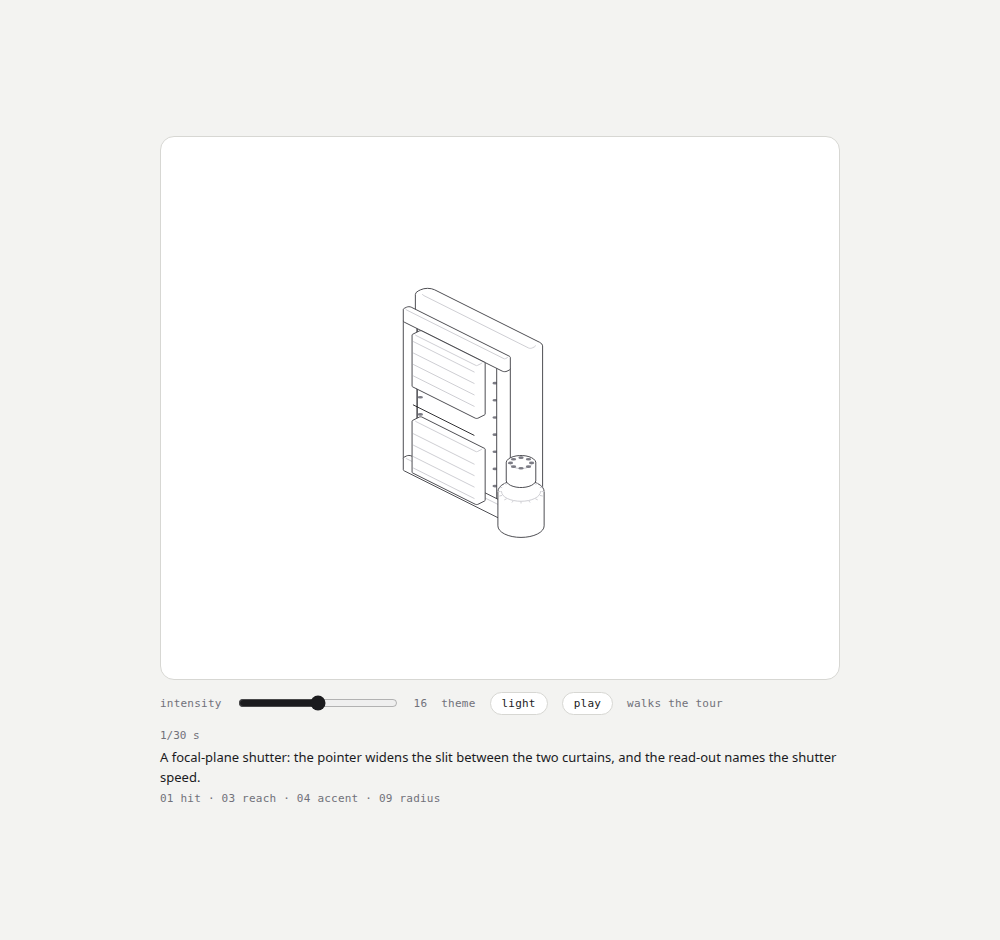
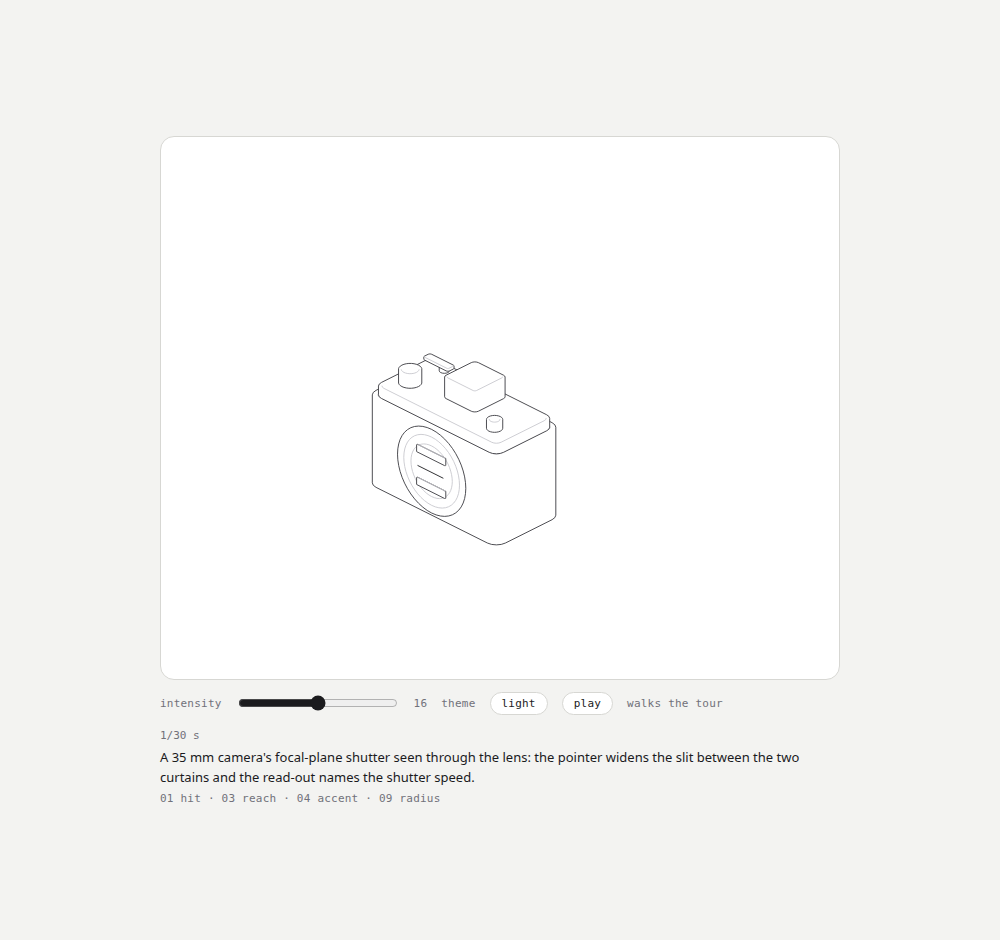
Rebuild the shutter as a camera so it reads
The plain focal-plane shutters read as a split door. A shutter has no identity
without its camera, so the figure is now the camera: body, lens, top plate with
prism, wind lever, shutter button and rewind knob, with the curtains and slit
seen through the lens. The concept was the fault, not the kernel.

Changed region(s): [[0.372, 0.3085, 0.558, 0.5862], [0.155, 0.8021, 0.837, 0.833]]

diff --git a/.agents/prototypes/shutter/eli5/eli5-shutter.html b/.agents/prototypes/shutter/eli5/eli5-shutter.html
@@ -817,69 +817,67 @@ function figure(spec) {
 
 
 /**
- * shutter — the focal-plane shutter of a 35 mm camera, seen from the front:
- * the film gate, two curtains (first and second) with the exposure slit between
- * them, a winding knob and a sprocket. The curtains travel together at one
- * speed, so how long the film is exposed is the width of the slit: the pointer
- * widens the slit and the read-out names the shutter speed. At rest the shutter
- * is nearly closed. intensity is the widest slit, so a stronger setting lets the
- * pointer reach a slower speed.
- *
- * A figure creates its solids and draws them in the same order it wants them
- * painted: the audit reads paint order from the order `draw` was called.
+ * shutter — the focal-plane shutter of a 35 mm camera, seen head-on. The camera
+ * is drawn with its shutter at the centre of the lens: the two curtains and the
+ * slit between them. The curtains travel at one speed, so how long the film is
+ * exposed is the width of the slit — the pointer widens the slit and the
+ * read-out names the shutter speed. At rest the shutter is nearly closed.
+ * intensity is the widest slit, so a stronger setting reaches a slower speed.
  */
-const W = 36, H = 48, CY = H / 2, EDGE = 4;       // the gate, and the film's sprocket margins
+const BW = 36, BH = 40, BY = 16;              // the body's half-width/height, and its front face
+const LX = 0, LZ = 20, GAP = 9;              // the lens, and the shutter opening inside it
 const STOPS = [[1.6, "1000"], [2.6, "500"], [4, "250"], [6, "125"], [9, "60"], [13, "30"], [19, "15"]];
 const speed = (s) => STOPS.reduce((a, b) => (Math.abs(b[0] - s) < Math.abs(a[0] - s) ? b : a))[1];
 
 function mount({ stage, svg, read }, value) {
   const bag = EL.disposer();
-  const C = EL.cam(45, 0.5, 1.95);
-  EL.fit(C, [[-6, -12, -6], [W + 20, -12, -6], [W + 20, -12, H + 6], [-6, -12, H + 6], [W + 20, 8, 0]], 200, 162);
+  const C = EL.cam(45, 0.5, 1.5);
+  EL.fit(C, [[-BW - 6, -22, -6], [BW + 6, -22, -6], [BW + 6, -22, BH + 18], [-BW - 6, -22, BH + 18], [BW + 10, 16, 4]], 200, 174);
   const P = EL.proj(C), front = EL.facing(C);
   const g = EL.mk("g", {}, svg);
+  /** A circle drawn on the vertical front face (the x–z plane at y). */
+  const ringOnFace = (cx, cz, r, y, n = 48) => EL.poly([...Array(n)].map((_, i) => { const t = (i / n) * 2 * Math.PI; return P(cx + Math.cos(t) * r, y, cz + Math.sin(t) * r); }));
 
-  let over = null, last = NaN;
-  let A, B, slats, slit;
-  /** Paints the two curtains at slit `s`. `record` draws them once, in paint order, for the audit. */
+  // the body, and the top plate with the wind lever and the shutter button
+  EL.draw(EL.solid(g), EL.slab(-BW, -20, BW, BY, 5, 0, BH, P, front, { inset: 2.2 }), { name: "body", at: [0, -2, BH / 2] });
+  EL.draw(EL.solid(g), EL.slab(-BW + 2, -18, BW - 2, BY - 2, 4, BH, BH + 4, P, front, { inset: 1.4 }), { name: "top", at: [0, -2, BH + 2] });
+  EL.draw(EL.solid(g), EL.slab(-9, -17, 9, 1, 2, BH + 4, BH + 13, P, front, { inset: 1 }), { name: "prism", at: [0, -8, BH + 8] });
+  EL.draw(EL.solid(g), EL.cylinder(23, 4, 3.2, BH + 4, BH + 8, P, front, 24), { name: "release", at: [23, 4, BH + 6] });
+  EL.draw(EL.solid(g), EL.cylinder(-26, 2, 4.6, BH + 4, BH + 10, P, front, 28), { name: "rewind", at: [-26, 2, BH + 7] });
+  EL.draw(EL.solid(g), EL.cylinder(-23, -14, 2, BH + 4, BH + 6, P, front, 16), { name: "lever.pivot", at: [-23, -14, BH + 5] });
+  EL.draw(EL.solid(g), EL.slab(-33, -16, -19, -12, 1, BH + 6, BH + 7, P, front, { inset: 0.4 }), { name: "lever", at: [-26, -14, BH + 6.5] });
+
+  // the lens: concentric rings on the front face, the shutter inside the glass
+  EL.line(g, ringOnFace(LX, LZ, 19, BY + 0.04), "el-sil");
+  EL.line(g, ringOnFace(LX, LZ, 15.5, BY + 0.05), "el-lo");
+  EL.line(g, ringOnFace(LX, LZ, 11.5, BY + 0.06), "el-lo");
+
+  let over = null, last = NaN, A, B, slats, slit;
   const paint = (s, record) => {
     if (!record && s === last) return;
     last = s;
-    const za = CY + s / 2, zb = CY - s / 2;
-    const pa = EL.slab(EDGE, 1, W - EDGE, 5, 0.6, za, H, P, front, { inset: 0.8 });
-    const pb = EL.slab(EDGE, 1, W - EDGE, 5, 0.6, 0, zb, P, front, { inset: 0.8 });
-    if (record) {
-      EL.draw(A, pa, { name: "curtain", at: [W / 2, 3, (za + H) / 2] });
-      EL.draw(B, pb, { name: "curtain", at: [W / 2, 3, zb / 2] });
-    } else { EL.put(A, pa.paths); EL.put(B, pb.paths); }
+    const za = LZ + s / 2, zb = LZ - s / 2;
+    const pa = EL.slab(LX - GAP + 1, BY, LX + GAP - 1, BY + 0.6, 0.6, za, LZ + GAP, P, front, { inset: 0.6 });
+    const pb = EL.slab(LX - GAP + 1, BY, LX + GAP - 1, BY + 0.6, 0.6, LZ - GAP, zb, P, front, { inset: 0.6 });
+    if (record) { EL.draw(A, pa, { name: "curtain", at: [LX, BY + 0.3, (za + LZ + GAP) / 2] }); EL.draw(B, pb, { name: "curtain", at: [LX, BY + 0.3, (LZ - GAP + zb) / 2] }); }
+    else { EL.put(A, pa.paths); EL.put(B, pb.paths); }
     let d = "";
-    for (let z = za + 4; z < H - 1; z += 4) d += EL.seg(P(EDGE + 1, 5.06, z), P(W - EDGE - 1, 5.06, z));
-    for (let z = zb - 4; z > 1; z -= 4) d += EL.seg(P(EDGE + 1, 5.06, z), P(W - EDGE - 1, 5.06, z));
+    for (let z = za + 3; z < LZ + GAP - 1; z += 3) d += EL.seg(P(LX - GAP + 2, BY + 0.66, z), P(LX + GAP - 2, BY + 0.66, z));
+    for (let z = zb - 3; z > LZ - GAP + 1; z -= 3) d += EL.seg(P(LX - GAP + 2, BY + 0.66, z), P(LX + GAP - 2, BY + 0.66, z));
     slats.innerHTML = `<path class="el-lo" d="${d}"/>`;
-    slit.setAttribute("d", EL.seg(P(EDGE + 1, 5.12, CY), P(W - EDGE - 1, 5.12, CY)));
+    slit.setAttribute("d", EL.seg(P(LX - GAP + 2, BY + 0.72, LZ), P(LX + GAP - 2, BY + 0.72, LZ)));
     read.textContent = over ? `1/${speed(s)} s` : "rest";
   };
 
-  // body → film → curtains → frame → drive, in paint order
-  EL.draw(EL.solid(g), EL.slab(-6, -12, W + 9, -5, 3, -6, H + 6, P, front, { inset: 2.2 }), { name: "body", at: [W / 2, -8, H / 2] });
-  EL.draw(EL.solid(g), EL.slab(0, -4, W, -1, 1, 0, H, P, front, { inset: 0 }), { name: "film", at: [W / 2, -2.5, H / 2] });
-  for (const x of [2, W - 2]) for (let z = 5; z < H - 3; z += 6) { const d = EL.dot(g, C, 0.8, "el-dot m"); EL.place(d, P(x, -0.9, z)); }
-  for (const [x0, x1] of [[-4, 0], [W, W + 4]]) EL.draw(EL.solid(g), EL.slab(x0, -2, x1, 1, 1, 0, H, P, front, { inset: 0.8 }), { name: "rail", at: [(x0 + x1) / 2, -0.5, H / 2] });
-  for (const [z0, z1] of [[-4, 0], [H, H + 4]]) EL.draw(EL.solid(g), EL.slab(-4, -2, W + 4, 1, 1, z0, z1, P, front, { inset: 0.8 }), { name: "rail", at: [W / 2, -0.5, (z0 + z1) / 2] });
   A = EL.solid(g); B = EL.solid(g); slats = EL.mk("g", {}, g); slit = EL.line(g, "", "el-hi");
   paint(value * 0.4, true);
-  EL.draw(EL.solid(g), EL.cylinder(W + 12, 2, 7, -2, 10, P, front, 32), { name: "knob", at: [W + 12, 2, 4] });
-  let kd = ""; for (let i = 0; i < 16; i++) { const a = (i * Math.PI) / 8; kd += EL.seg(P(W + 12 + Math.cos(a) * 6.3, 2 + Math.sin(a) * 6.3, 10), P(W + 12 + Math.cos(a) * 7, 2 + Math.sin(a) * 7, 10)); }
-  EL.line(g, kd, "el-lo");
-  EL.draw(EL.solid(g), EL.cylinder(W + 12, 2, 4.5, 14, 20, P, front, 28), { name: "sprocket", at: [W + 12, 2, 17] });
-  for (let i = 0; i < 8; i++) { const a = (i * Math.PI) / 4; const d = EL.dot(g, C, 0.8, "el-dot m"); EL.place(d, P(W + 12 + Math.cos(a) * 3.2, 2 + Math.sin(a) * 3.2, 20)); }
 
   const sp = EL.spring(value * 0.4, { eps: 0.01 });
   const loop = EL.register(stage, (dt) => { const m = EL.stepS(sp, dt); paint(sp.x, false); return m; });
   bag.add(loop.unregister);
-  const retarget = () => { sp.t = over ? EL.clamp((over[0] / W) * value, 1.2, value) : value * 0.4; loop.wake(); };
+  const retarget = () => { sp.t = over ? EL.clamp(((over[0] - LX) / GAP) * 0.5 * value + 1.2, 1.2, value) : value * 0.4; loop.wake(); };
   bag.add(EL.pointer(stage, {
-    move: (p) => { over = EL.unproj(C, p[0], p[1], 2.5); retarget(); },
+    move: (p) => { over = EL.unproj(C, p[0], p[1], LZ); retarget(); },
     leave: () => { over = null; retarget(); },
   }));
   bag.add(() => svg.replaceChildren());
@@ -889,14 +887,15 @@ function mount({ stage, svg, read }, value) {
 
 figure({
   name: "shutter",
-  means: "A focal-plane shutter: the pointer widens the slit between the two curtains, and the read-out names the shutter speed.",
+  means: "A 35 mm camera's focal-plane shutter seen through the lens: the pointer widens the slit between the two curtains and the read-out names the shutter speed.",
   rule: [1, 3, 4, 9],
   range: [10, 16, 24],
   rest: "rest",
-  tour: [[90, 150], [200, 130], [310, 150], [200, 200], null],
+  tour: [[120, 200], [200, 160], [280, 200], [200, 250], null],
   parts: [
-    { name: "film", shows: ["a portrait frame", "sprocket holes down both edges"] },
-    { name: "curtain", shows: ["horizontal slats", "a wound edge"] },
+    { name: "body", shows: ["a rounded slab", "a top plate with a wind lever and a shutter button"] },
+    { name: "lens", shows: ["concentric rings", "a glass at the centre"] },
+    { name: "curtain", shows: ["horizontal slats", "an edge wound on its drum"] },
     { name: "slit", shows: ["the light between the two curtains"] },
   ],
   mount,

diff --git a/.agents/prototypes/shutter/eli5/shutter.js b/.agents/prototypes/shutter/eli5/shutter.js
@@ -1,67 +1,65 @@
 /**
- * shutter — the focal-plane shutter of a 35 mm camera, seen from the front:
- * the film gate, two curtains (first and second) with the exposure slit between
- * them, a winding knob and a sprocket. The curtains travel together at one
- * speed, so how long the film is exposed is the width of the slit: the pointer
- * widens the slit and the read-out names the shutter speed. At rest the shutter
- * is nearly closed. intensity is the widest slit, so a stronger setting lets the
- * pointer reach a slower speed.
- *
- * A figure creates its solids and draws them in the same order it wants them
- * painted: the audit reads paint order from the order `draw` was called.
+ * shutter — the focal-plane shutter of a 35 mm camera, seen head-on. The camera
+ * is drawn with its shutter at the centre of the lens: the two curtains and the
+ * slit between them. The curtains travel at one speed, so how long the film is
+ * exposed is the width of the slit — the pointer widens the slit and the
+ * read-out names the shutter speed. At rest the shutter is nearly closed.
+ * intensity is the widest slit, so a stronger setting reaches a slower speed.
  */
-const W = 36, H = 48, CY = H / 2, EDGE = 4;       // the gate, and the film's sprocket margins
+const BW = 36, BH = 40, BY = 16;              // the body's half-width/height, and its front face
+const LX = 0, LZ = 20, GAP = 9;              // the lens, and the shutter opening inside it
 const STOPS = [[1.6, "1000"], [2.6, "500"], [4, "250"], [6, "125"], [9, "60"], [13, "30"], [19, "15"]];
 const speed = (s) => STOPS.reduce((a, b) => (Math.abs(b[0] - s) < Math.abs(a[0] - s) ? b : a))[1];
 
 function mount({ stage, svg, read }, value) {
   const bag = EL.disposer();
-  const C = EL.cam(45, 0.5, 1.95);
-  EL.fit(C, [[-6, -12, -6], [W + 20, -12, -6], [W + 20, -12, H + 6], [-6, -12, H + 6], [W + 20, 8, 0]], 200, 162);
+  const C = EL.cam(45, 0.5, 1.5);
+  EL.fit(C, [[-BW - 6, -22, -6], [BW + 6, -22, -6], [BW + 6, -22, BH + 18], [-BW - 6, -22, BH + 18], [BW + 10, 16, 4]], 200, 174);
   const P = EL.proj(C), front = EL.facing(C);
   const g = EL.mk("g", {}, svg);
+  /** A circle drawn on the vertical front face (the x–z plane at y). */
+  const ringOnFace = (cx, cz, r, y, n = 48) => EL.poly([...Array(n)].map((_, i) => { const t = (i / n) * 2 * Math.PI; return P(cx + Math.cos(t) * r, y, cz + Math.sin(t) * r); }));
 
-  let over = null, last = NaN;
-  let A, B, slats, slit;
-  /** Paints the two curtains at slit `s`. `record` draws them once, in paint order, for the audit. */
+  // the body, and the top plate with the wind lever and the shutter button
+  EL.draw(EL.solid(g), EL.slab(-BW, -20, BW, BY, 5, 0, BH, P, front, { inset: 2.2 }), { name: "body", at: [0, -2, BH / 2] });
+  EL.draw(EL.solid(g), EL.slab(-BW + 2, -18, BW - 2, BY - 2, 4, BH, BH + 4, P, front, { inset: 1.4 }), { name: "top", at: [0, -2, BH + 2] });
+  EL.draw(EL.solid(g), EL.slab(-9, -17, 9, 1, 2, BH + 4, BH + 13, P, front, { inset: 1 }), { name: "prism", at: [0, -8, BH + 8] });
+  EL.draw(EL.solid(g), EL.cylinder(23, 4, 3.2, BH + 4, BH + 8, P, front, 24), { name: "release", at: [23, 4, BH + 6] });
+  EL.draw(EL.solid(g), EL.cylinder(-26, 2, 4.6, BH + 4, BH + 10, P, front, 28), { name: "rewind", at: [-26, 2, BH + 7] });
+  EL.draw(EL.solid(g), EL.cylinder(-23, -14, 2, BH + 4, BH + 6, P, front, 16), { name: "lever.pivot", at: [-23, -14, BH + 5] });
+  EL.draw(EL.solid(g), EL.slab(-33, -16, -19, -12, 1, BH + 6, BH + 7, P, front, { inset: 0.4 }), { name: "lever", at: [-26, -14, BH + 6.5] });
+
+  // the lens: concentric rings on the front face, the shutter inside the glass
+  EL.line(g, ringOnFace(LX, LZ, 19, BY + 0.04), "el-sil");
+  EL.line(g, ringOnFace(LX, LZ, 15.5, BY + 0.05), "el-lo");
+  EL.line(g, ringOnFace(LX, LZ, 11.5, BY + 0.06), "el-lo");
+
+  let over = null, last = NaN, A, B, slats, slit;
   const paint = (s, record) => {
     if (!record && s === last) return;
     last = s;
-    const za = CY + s / 2, zb = CY - s / 2;
-    const pa = EL.slab(EDGE, 1, W - EDGE, 5, 0.6, za, H, P, front, { inset: 0.8 });
-    const pb = EL.slab(EDGE, 1, W - EDGE, 5, 0.6, 0, zb, P, front, { inset: 0.8 });
-    if (record) {
-      EL.draw(A, pa, { name: "curtain", at: [W / 2, 3, (za + H) / 2] });
-      EL.draw(B, pb, { name: "curtain", at: [W / 2, 3, zb / 2] });
-    } else { EL.put(A, pa.paths); EL.put(B, pb.paths); }
+    const za = LZ + s / 2, zb = LZ - s / 2;
+    const pa = EL.slab(LX - GAP + 1, BY, LX + GAP - 1, BY + 0.6, 0.6, za, LZ + GAP, P, front, { inset: 0.6 });
+    const pb = EL.slab(LX - GAP + 1, BY, LX + GAP - 1, BY + 0.6, 0.6, LZ - GAP, zb, P, front, { inset: 0.6 });
+    if (record) { EL.draw(A, pa, { name: "curtain", at: [LX, BY + 0.3, (za + LZ + GAP) / 2] }); EL.draw(B, pb, { name: "curtain", at: [LX, BY + 0.3, (LZ - GAP + zb) / 2] }); }
+    else { EL.put(A, pa.paths); EL.put(B, pb.paths); }
     let d = "";
-    for (let z = za + 4; z < H - 1; z += 4) d += EL.seg(P(EDGE + 1, 5.06, z), P(W - EDGE - 1, 5.06, z));
-    for (let z = zb - 4; z > 1; z -= 4) d += EL.seg(P(EDGE + 1, 5.06, z), P(W - EDGE - 1, 5.06, z));
+    for (let z = za + 3; z < LZ + GAP - 1; z += 3) d += EL.seg(P(LX - GAP + 2, BY + 0.66, z), P(LX + GAP - 2, BY + 0.66, z));
+    for (let z = zb - 3; z > LZ - GAP + 1; z -= 3) d += EL.seg(P(LX - GAP + 2, BY + 0.66, z), P(LX + GAP - 2, BY + 0.66, z));
     slats.innerHTML = `<path class="el-lo" d="${d}"/>`;
-    slit.setAttribute("d", EL.seg(P(EDGE + 1, 5.12, CY), P(W - EDGE - 1, 5.12, CY)));
+    slit.setAttribute("d", EL.seg(P(LX - GAP + 2, BY + 0.72, LZ), P(LX + GAP - 2, BY + 0.72, LZ)));
     read.textContent = over ? `1/${speed(s)} s` : "rest";
   };
 
-  // body → film → curtains → frame → drive, in paint order
-  EL.draw(EL.solid(g), EL.slab(-6, -12, W + 9, -5, 3, -6, H + 6, P, front, { inset: 2.2 }), { name: "body", at: [W / 2, -8, H / 2] });
-  EL.draw(EL.solid(g), EL.slab(0, -4, W, -1, 1, 0, H, P, front, { inset: 0 }), { name: "film", at: [W / 2, -2.5, H / 2] });
-  for (const x of [2, W - 2]) for (let z = 5; z < H - 3; z += 6) { const d = EL.dot(g, C, 0.8, "el-dot m"); EL.place(d, P(x, -0.9, z)); }
-  for (const [x0, x1] of [[-4, 0], [W, W + 4]]) EL.draw(EL.solid(g), EL.slab(x0, -2, x1, 1, 1, 0, H, P, front, { inset: 0.8 }), { name: "rail", at: [(x0 + x1) / 2, -0.5, H / 2] });
-  for (const [z0, z1] of [[-4, 0], [H, H + 4]]) EL.draw(EL.solid(g), EL.slab(-4, -2, W + 4, 1, 1, z0, z1, P, front, { inset: 0.8 }), { name: "rail", at: [W / 2, -0.5, (z0 + z1) / 2] });
   A = EL.solid(g); B = EL.solid(g); slats = EL.mk("g", {}, g); slit = EL.line(g, "", "el-hi");
   paint(value * 0.4, true);
-  EL.draw(EL.solid(g), EL.cylinder(W + 12, 2, 7, -2, 10, P, front, 32), { name: "knob", at: [W + 12, 2, 4] });
-  let kd = ""; for (let i = 0; i < 16; i++) { const a = (i * Math.PI) / 8; kd += EL.seg(P(W + 12 + Math.cos(a) * 6.3, 2 + Math.sin(a) * 6.3, 10), P(W + 12 + Math.cos(a) * 7, 2 + Math.sin(a) * 7, 10)); }
-  EL.line(g, kd, "el-lo");
-  EL.draw(EL.solid(g), EL.cylinder(W + 12, 2, 4.5, 14, 20, P, front, 28), { name: "sprocket", at: [W + 12, 2, 17] });
-  for (let i = 0; i < 8; i++) { const a = (i * Math.PI) / 4; const d = EL.dot(g, C, 0.8, "el-dot m"); EL.place(d, P(W + 12 + Math.cos(a) * 3.2, 2 + Math.sin(a) * 3.2, 20)); }
 
   const sp = EL.spring(value * 0.4, { eps: 0.01 });
   const loop = EL.register(stage, (dt) => { const m = EL.stepS(sp, dt); paint(sp.x, false); return m; });
   bag.add(loop.unregister);
-  const retarget = () => { sp.t = over ? EL.clamp((over[0] / W) * value, 1.2, value) : value * 0.4; loop.wake(); };
+  const retarget = () => { sp.t = over ? EL.clamp(((over[0] - LX) / GAP) * 0.5 * value + 1.2, 1.2, value) : value * 0.4; loop.wake(); };
   bag.add(EL.pointer(stage, {
-    move: (p) => { over = EL.unproj(C, p[0], p[1], 2.5); retarget(); },
+    move: (p) => { over = EL.unproj(C, p[0], p[1], LZ); retarget(); },
     leave: () => { over = null; retarget(); },
   }));
   bag.add(() => svg.replaceChildren());
@@ -71,14 +69,15 @@ function mount({ stage, svg, read }, value) {
 
 figure({
   name: "shutter",
-  means: "A focal-plane shutter: the pointer widens the slit between the two curtains, and the read-out names the shutter speed.",
+  means: "A 35 mm camera's focal-plane shutter seen through the lens: the pointer widens the slit between the two curtains and the read-out names the shutter speed.",
   rule: [1, 3, 4, 9],
   range: [10, 16, 24],
   rest: "rest",
-  tour: [[90, 150], [200, 130], [310, 150], [200, 200], null],
+  tour: [[120, 200], [200, 160], [280, 200], [200, 250], null],
   parts: [
-    { name: "film", shows: ["a portrait frame", "sprocket holes down both edges"] },
-    { name: "curtain", shows: ["horizontal slats", "a wound edge"] },
+    { name: "body", shows: ["a rounded slab", "a top plate with a wind lever and a shutter button"] },
+    { name: "lens", shows: ["concentric rings", "a glass at the centre"] },
+    { name: "curtain", shows: ["horizontal slats", "an edge wound on its drum"] },
     { name: "slit", shows: ["the light between the two curtains"] },
   ],
   mount,

diff --git a/.agents/prototypes/shutter/NOTES.md b/.agents/prototypes/shutter/NOTES.md
@@ -18,6 +18,22 @@ closed; the slider is the widest slit, so a stronger setting reaches a slower
 speed. Parts: film (a portrait frame with sprocket holes), curtain (horizontal
 slats), slit (the light between the curtains).
 
+## Step 1 — rebuilt with the camera around it
+
+The first version read as "a vertical split door". The cause was not the
+machinery: it was the concept. A shutter is an internal part whose identity
+depends on the camera around it, and I had drawn the fragment. So the figure was
+rebuilt as the camera itself — a rounded body, a lens of concentric rings on the
+front, a top plate with a prism, a wind lever and a shutter button, a rewind
+knob — with the two curtains and the slit seen through the lens. Only then does
+it read as a camera shutter, at 1×, at 240px, and in both themes.
+
+The read of `look.md` item 2, answered honestly: body ✓ (slab; top plate with a
+wind lever and a shutter button), lens ✓ (concentric rings), slit ✓ (the light
+between the curtains), curtain — slats ✓ but "an edge wound on its drum" is
+**not shown**, so partial. The gap that remains — an object with volume and
+small true parts — is what step 2's shading and parts library are for.
+
 ## What the gates did
 
 All three pass: `validate` ok, `audit passed · 10 items`, and the eight-view
